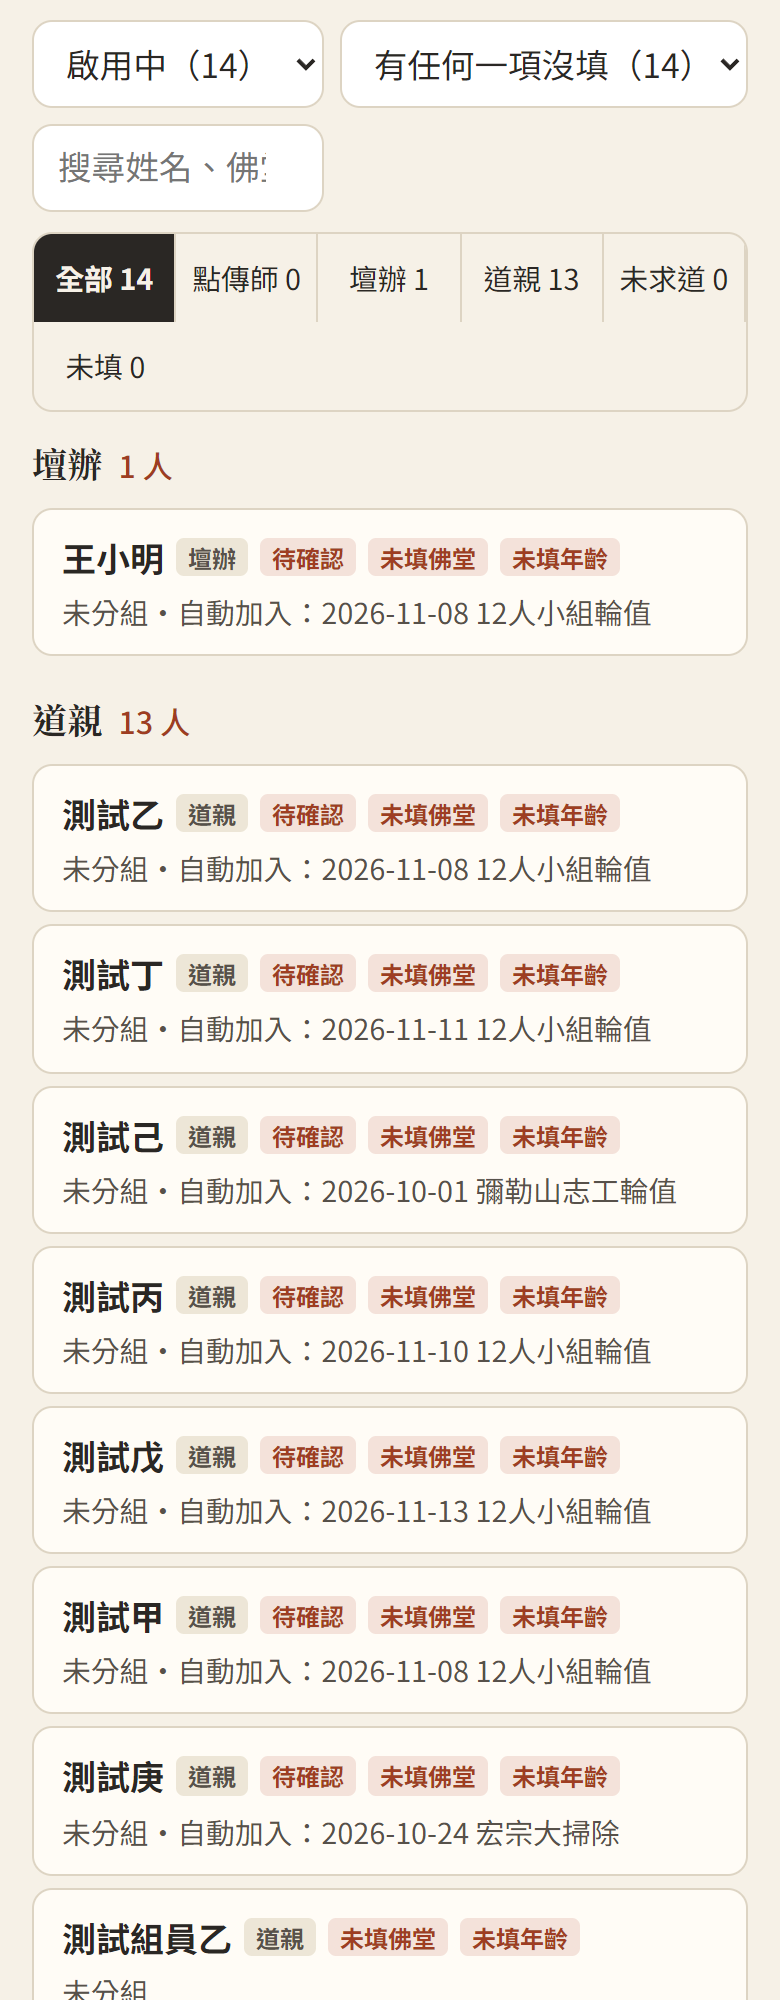
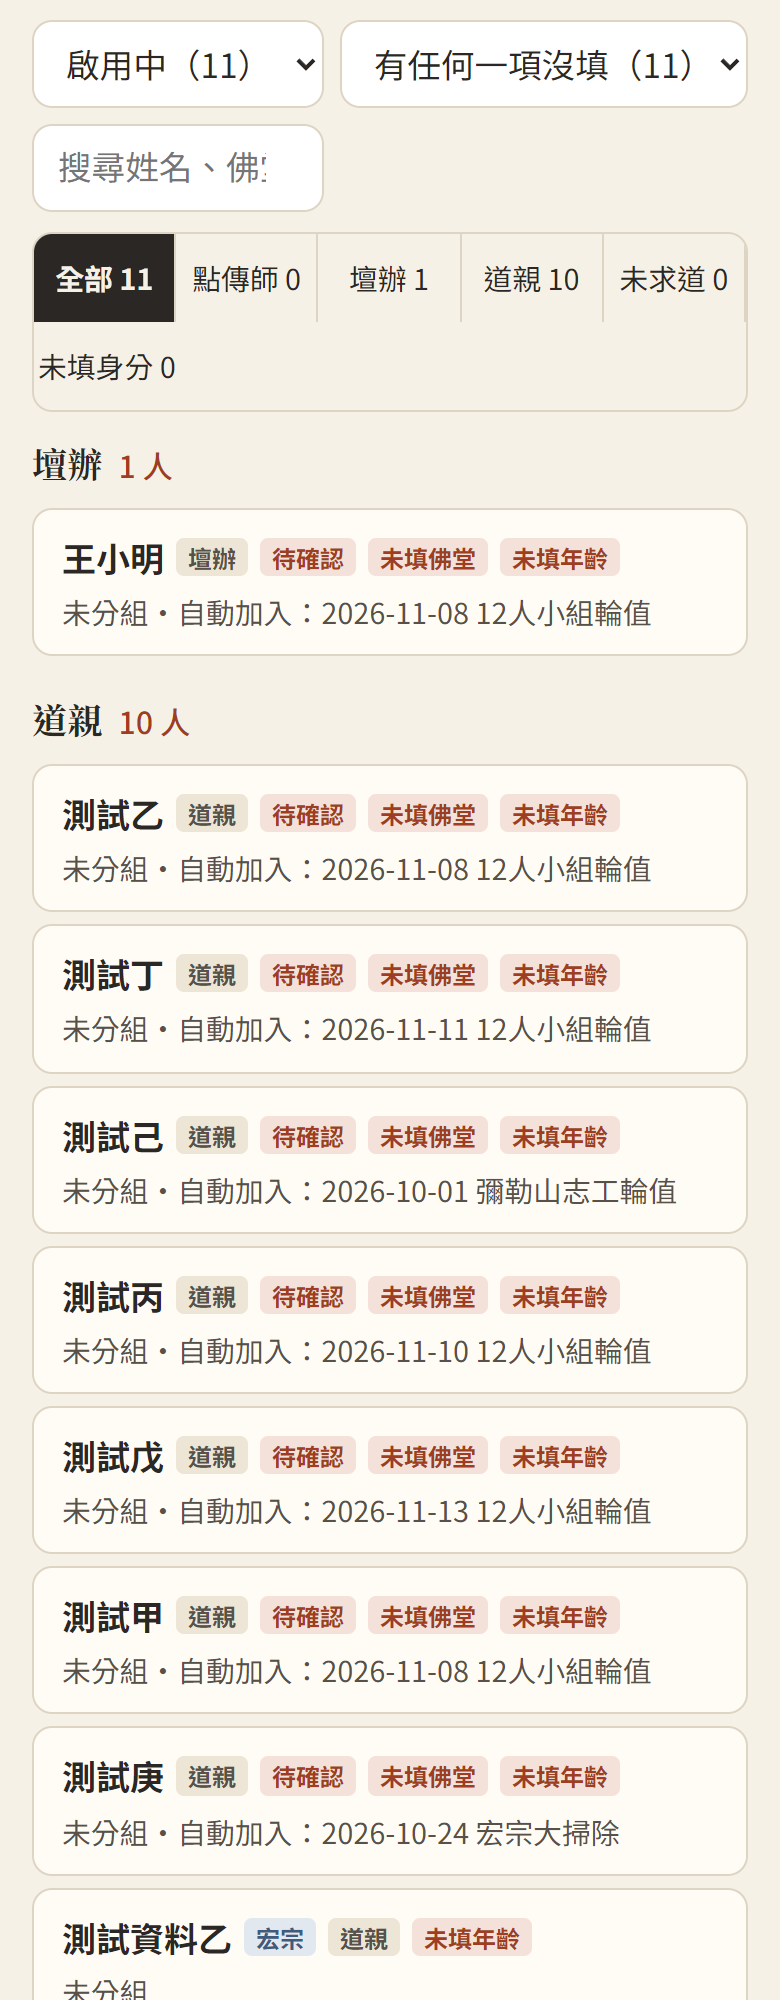
成員身分篩選「未填」改寫「未填身分」

diff --git a/index.html b/index.html
@@ -23,7 +23,7 @@
   <link rel="preconnect" href="https://fonts.googleapis.com">
   <link rel="preconnect" href="https://fonts.gstatic.com" crossorigin>
   <link href="https://fonts.googleapis.com/css2?family=Noto+Sans+TC:wght@400;500;700&family=Noto+Serif+TC:wght@600;700&display=swap" rel="stylesheet">
-  <link rel="stylesheet" href="css/app.css?v=20261122i">
+  <link rel="stylesheet" href="css/app.css?v=20261122j">
   <script>try { var t = localStorage.getItem('duty-calendar:text-size'); if (t === 'l' || t === 'xl') document.documentElement.classList.add('text-' + t); } catch (e) {}</script>
 </head>
 <body class="splash-on">
@@ -118,66 +118,66 @@
   <script src="https://cdn.jsdelivr.net/npm/fullcalendar@6.1.21/index.global.min.js"></script>
   <script src="https://cdn.jsdelivr.net/npm/@fullcalendar/core@6.1.21/locales/zh-tw.global.min.js"></script>
   <!-- 改了 js、css 後把 ?v= 的日期換新，手機才不會用到舊的檔案（GitHub Pages 會快取 10 分鐘） -->
-  <script src="js/site.js?v=20261122i"></script>
-  <script src="js/region.js?v=20261122i"></script>
-  <script src="js/config.js?v=20261122i"></script>
-  <script src="js/api.js?v=20261122i"></script>
-  <script src="js/format.js?v=20261122i"></script>
-  <script src="js/member-suggest.js?v=20261122i"></script>
-  <script src="js/member-file.js?v=20261122i"></script>
-  <script src="js/family.js?v=20261122i"></script>
-  <script src="js/lunar-util.js?v=20261122i"></script>
-  <script src="js/date-list.js?v=20261122i"></script>
-  <script src="js/share.js?v=20261122i"></script>
-  <script src="js/addcal.js?v=20261122i"></script>
-  <script src="js/duty-cache.js?v=20261122i"></script>
-  <script src="js/thanks-board.js?v=20261122i"></script>
-  <script src="js/calendar.js?v=20261122i"></script>
-  <script src="js/confirm.js?v=20261122i"></script>
-  <script src="js/reschedule.js?v=20261122i"></script>
-  <script src="js/signup.js?v=20261122i"></script>
-  <script src="js/duty-images.js?v=20261122i"></script>
-  <script src="js/roster-grid.js?v=20261122i"></script>
-  <script src="js/grid-page.js?v=20261122i"></script>
-  <script src="js/grid-image.js?v=20261122i"></script>
-  <script src="js/thanks-image.js?v=20261122i"></script>
-  <script src="js/celebrate.js?v=20261122i"></script>
-  <script src="js/duty.js?v=20261122i"></script>
-  <script src="js/mine.js?v=20261122i"></script>
-  <script src="js/venue-hours.js?v=20261122i"></script>
-  <script src="js/venue.js?v=20261122i"></script>
-  <script src="js/push.js?v=20261122i"></script>
-  <script src="js/admin.js?v=20261122i"></script>
-  <script src="js/admin-pages.js?v=20261122i"></script>
-  <script src="js/draft-editor.js?v=20261122i"></script>
-  <script src="js/group-fair.js?v=20261122i"></script>
-  <script src="js/admin-duties.js?v=20261122i"></script>
-  <script src="js/admin-accounts.js?v=20261122i"></script>
-  <script src="js/admin-site.js?v=20261122i"></script>
-  <script src="js/region-setup.js?v=20261122i"></script>
-  <script src="js/import-parse.js?v=20261122i"></script>
-  <script src="js/admin-import.js?v=20261122i"></script>
-  <script src="js/admin-people.js?v=20261122i"></script>
-  <script src="js/stats-calc.js?v=20261122i"></script>
-  <script src="js/edu-stats.js?v=20261122i"></script>
-  <script src="js/admin-goals.js?v=20261122i"></script>
-  <script src="js/admin-venue.js?v=20261122i"></script>
-  <script src="js/admin-push.js?v=20261122i"></script>
-  <script src="js/tutorial.js?v=20261122i"></script>
-  <script src="js/help.js?v=20261122i"></script>
-  <script src="js/rollcall.js?v=20261122i"></script>
-  <script src="js/stats-export.js?v=20261122i"></script>
-  <script src="js/repair.js?v=20261122i"></script>
-  <script src="js/activity-report.js?v=20261122i"></script>
-  <script src="js/member-stats.js?v=20261122i"></script>
-  <script src="js/admin-stats.js?v=20261122i"></script>
-  <script src="js/admin-report.js?v=20261122i"></script>
-  <script src="js/admin-recent-signups.js?v=20261122i"></script>
-  <script src="js/admin-notice.js?v=20261122i"></script>
-  <script src="js/admin-notify.js?v=20261122i"></script>
-  <script src="js/history-parse.js?v=20261122i"></script>
-  <script src="js/admin-history.js?v=20261122i"></script>
-  <script src="js/easy-mode.js?v=20261122i"></script>
-  <script src="js/app.js?v=20261122i"></script>
+  <script src="js/site.js?v=20261122j"></script>
+  <script src="js/region.js?v=20261122j"></script>
+  <script src="js/config.js?v=20261122j"></script>
+  <script src="js/api.js?v=20261122j"></script>
+  <script src="js/format.js?v=20261122j"></script>
+  <script src="js/member-suggest.js?v=20261122j"></script>
+  <script src="js/member-file.js?v=20261122j"></script>
+  <script src="js/family.js?v=20261122j"></script>
+  <script src="js/lunar-util.js?v=20261122j"></script>
+  <script src="js/date-list.js?v=20261122j"></script>
+  <script src="js/share.js?v=20261122j"></script>
+  <script src="js/addcal.js?v=20261122j"></script>
+  <script src="js/duty-cache.js?v=20261122j"></script>
+  <script src="js/thanks-board.js?v=20261122j"></script>
+  <script src="js/calendar.js?v=20261122j"></script>
+  <script src="js/confirm.js?v=20261122j"></script>
+  <script src="js/reschedule.js?v=20261122j"></script>
+  <script src="js/signup.js?v=20261122j"></script>
+  <script src="js/duty-images.js?v=20261122j"></script>
+  <script src="js/roster-grid.js?v=20261122j"></script>
+  <script src="js/grid-page.js?v=20261122j"></script>
+  <script src="js/grid-image.js?v=20261122j"></script>
+  <script src="js/thanks-image.js?v=20261122j"></script>
+  <script src="js/celebrate.js?v=20261122j"></script>
+  <script src="js/duty.js?v=20261122j"></script>
+  <script src="js/mine.js?v=20261122j"></script>
+  <script src="js/venue-hours.js?v=20261122j"></script>
+  <script src="js/venue.js?v=20261122j"></script>
+  <script src="js/push.js?v=20261122j"></script>
+  <script src="js/admin.js?v=20261122j"></script>
+  <script src="js/admin-pages.js?v=20261122j"></script>
+  <script src="js/draft-editor.js?v=20261122j"></script>
+  <script src="js/group-fair.js?v=20261122j"></script>
+  <script src="js/admin-duties.js?v=20261122j"></script>
+  <script src="js/admin-accounts.js?v=20261122j"></script>
+  <script src="js/admin-site.js?v=20261122j"></script>
+  <script src="js/region-setup.js?v=20261122j"></script>
+  <script src="js/import-parse.js?v=20261122j"></script>
+  <script src="js/admin-import.js?v=20261122j"></script>
+  <script src="js/admin-people.js?v=20261122j"></script>
+  <script src="js/stats-calc.js?v=20261122j"></script>
+  <script src="js/edu-stats.js?v=20261122j"></script>
+  <script src="js/admin-goals.js?v=20261122j"></script>
+  <script src="js/admin-venue.js?v=20261122j"></script>
+  <script src="js/admin-push.js?v=20261122j"></script>
+  <script src="js/tutorial.js?v=20261122j"></script>
+  <script src="js/help.js?v=20261122j"></script>
+  <script src="js/rollcall.js?v=20261122j"></script>
+  <script src="js/stats-export.js?v=20261122j"></script>
+  <script src="js/repair.js?v=20261122j"></script>
+  <script src="js/activity-report.js?v=20261122j"></script>
+  <script src="js/member-stats.js?v=20261122j"></script>
+  <script src="js/admin-stats.js?v=20261122j"></script>
+  <script src="js/admin-report.js?v=20261122j"></script>
+  <script src="js/admin-recent-signups.js?v=20261122j"></script>
+  <script src="js/admin-notice.js?v=20261122j"></script>
+  <script src="js/admin-notify.js?v=20261122j"></script>
+  <script src="js/history-parse.js?v=20261122j"></script>
+  <script src="js/admin-history.js?v=20261122j"></script>
+  <script src="js/easy-mode.js?v=20261122j"></script>
+  <script src="js/app.js?v=20261122j"></script>
 </body>
 </html>

diff --git a/js/admin-people.js b/js/admin-people.js
@@ -278,7 +278,7 @@
   const MISSING = [['temple', '沒填佛堂', (m) => !m.temple], ['age', '沒填年齡', (m) => m.age === '' || m.age === undefined || m.age === null], ['identity', '沒填身分', (m) => !m.identity]];
   const missingOf = (m) => MISSING.filter(([, , f]) => f(m));
   const IDENTITY_ORDER = [['點傳師', '點傳師'], ['壇辦', '壇辦'], ['道親', '道親'], ['未求道', '未求道'], ['', '未填身分']];
-  const SHORT = { '未填身分': '未填' }; // 篩選按鈕用短一點的字，手機上才排得下一列
+  const SHORT = {}; // 篩選按鈕的短名稱（2026/11/22 起「未填身分」寫完整，才不會以為是沒填佛堂、年齡）
 
   function members(body, guard) {
     const reload = () => members(body, guard);
